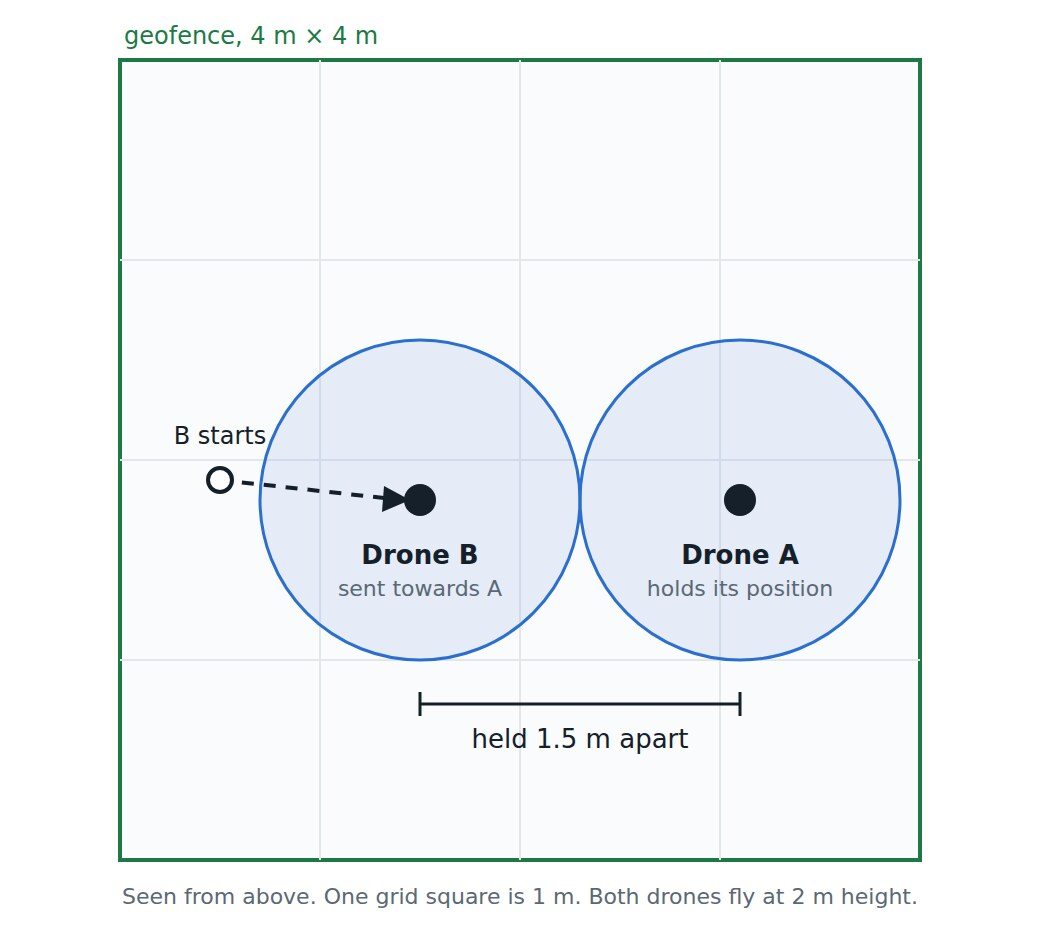
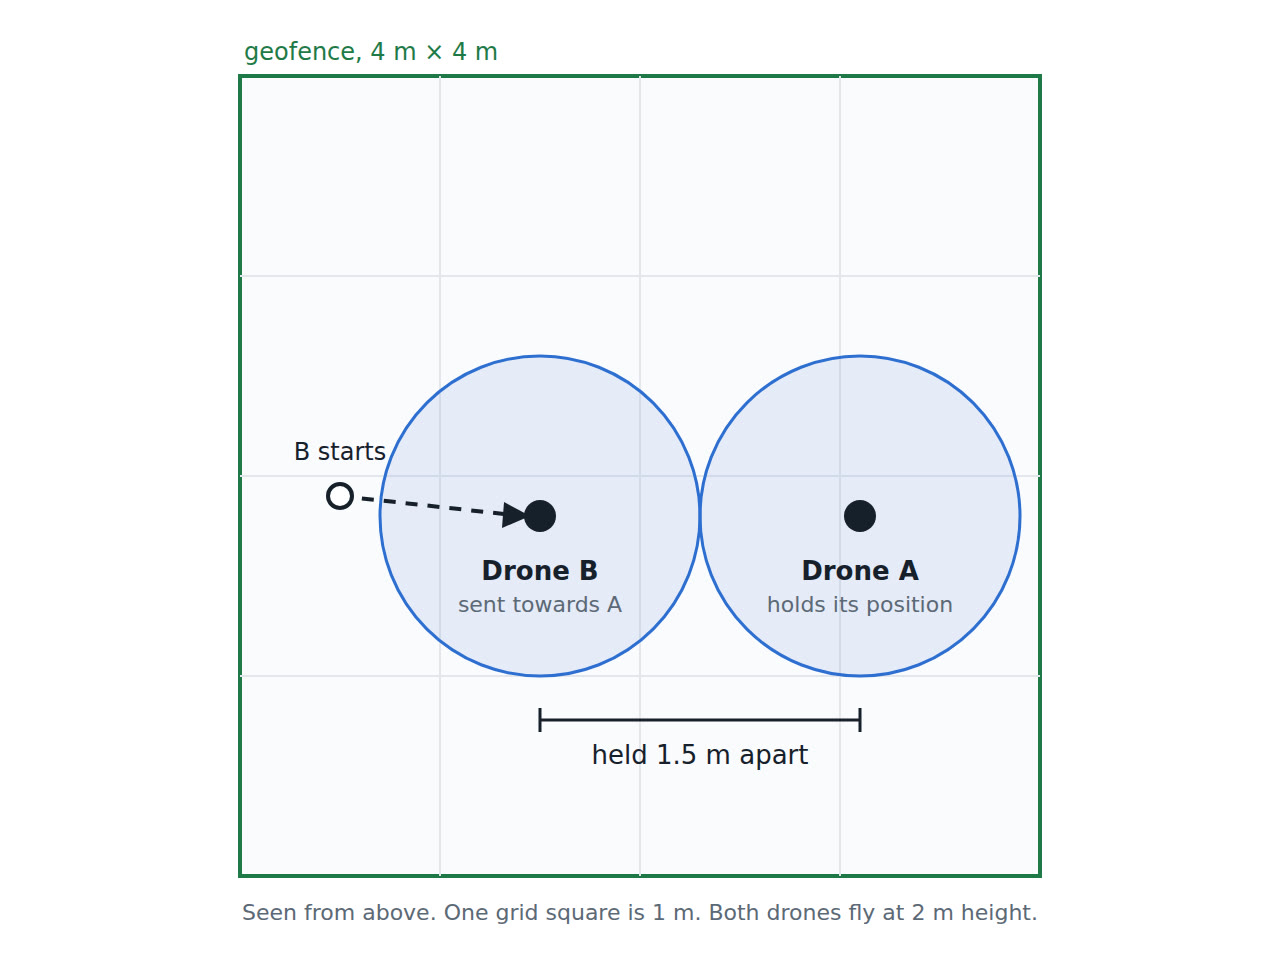
updates: hangar clip in the two-Starling post, diagram at 4:3
The home page no longer renders progress.md, so the hangar clip had no page;
it now sits in the post. The diagram is redrawn at 4:3 so the gallery strip
shows all of it.

diff --git a/content/updates/st/2026-11-13-two-starlings-in-singapore.md b/content/updates/st/2026-11-13-two-starlings-in-singapore.md
@@ -32,5 +32,7 @@ The next day we put a second Starling in the air beside it. One drone held its p
 the other straight at it. The safety filter stopped the moving drone short and eased the hovering
 one aside, holding the two 1.5 m apart.
 
+<figure class="clip"><video controls muted playsinline preload="none" poster="../../../media/st-two-starlings-hangar.jpg" aria-label="Flight clip: two Starlings take off and return in the Singapore lab"><source src="../../../media/st-two-starlings-hangar.mp4" type="video/mp4"></video><figcaption>The two Starlings on 12 November 2026, from the lab's camera. The clip shows the take-off and, later in the same flight, the return to land. Watch both drones lift from the floor tiles together. Video: NEAR Lab, ST Engineering.</figcaption></figure>
+
 These are the first team flights in Singapore. Next come both drones moving, then the formations
 and random goals already flown at CMU.
